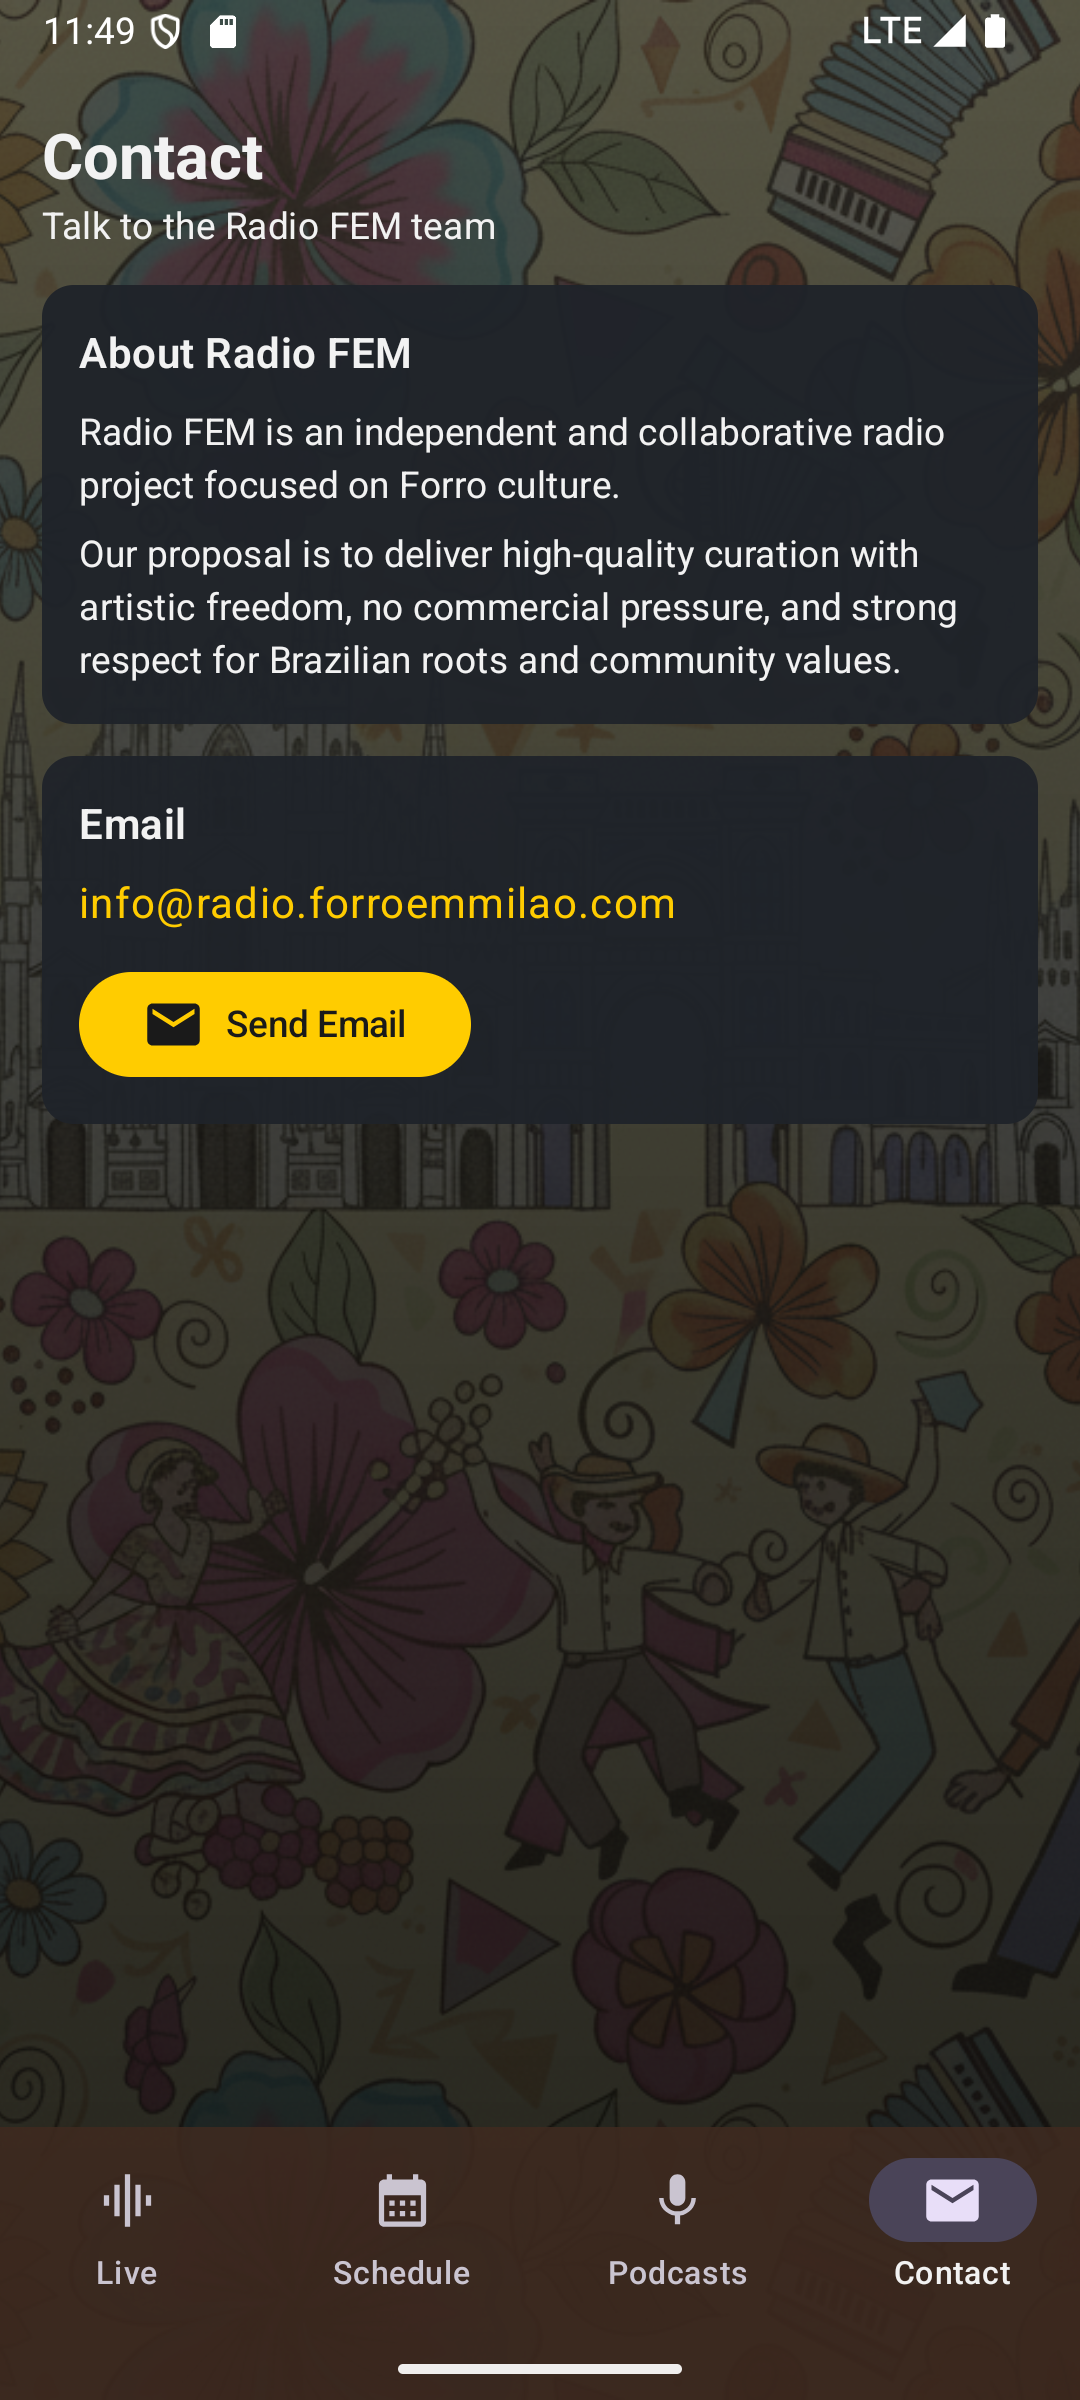
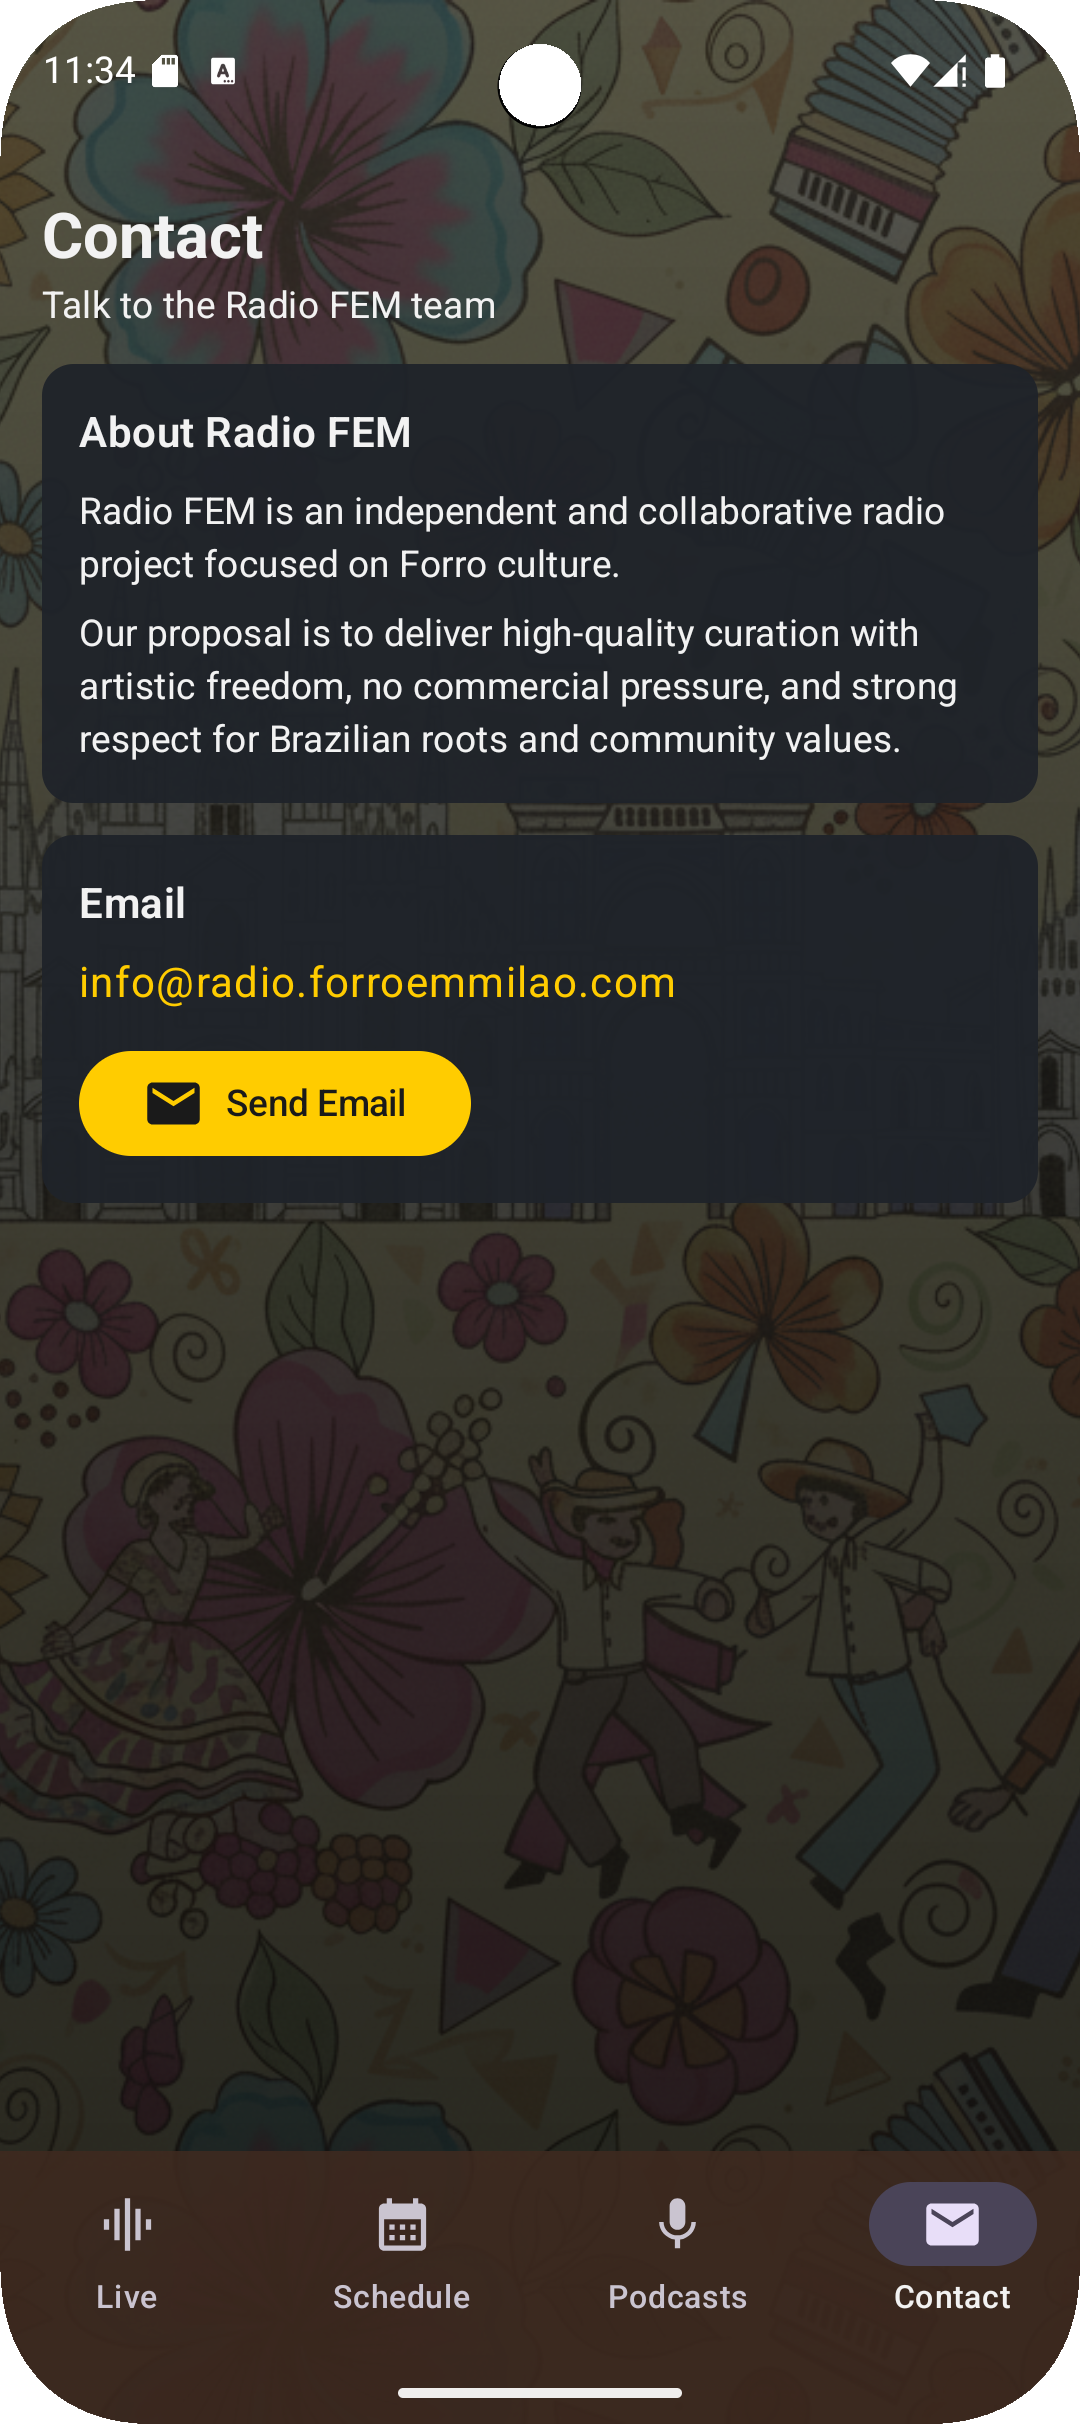
Update Play Store materials and screenshots for v1.0.1

diff --git a/PLAYSTORE_MATERIALS_radio_fem_v1.0.1.md b/PLAYSTORE_MATERIALS_radio_fem_v1.0.1.md
@@ -6,7 +6,7 @@
 Radio FEM
 
 ### Short description (max 80)
-Independent Forro radio with live stream, schedule, and podcasts.
+Independent Forro radio with live stream, schedule, podcasts, and contact.
 
 ### Full description (Google Play)
 Radio FEM is the official app of an independent and collaborative radio project created by Forro em Milao.
@@ -17,8 +17,10 @@ With the Radio FEM app, you can:
 - Listen to the live stream anytime.
 - See what is playing now.
 - Browse the program schedule in weekly and monthly views.
+- Navigate calendar periods and view programs for the selected week or month.
 - Explore podcasts and play episodes inside the app.
 - Control playback from notifications, headphones, and Bluetooth.
+- Contact the Radio FEM team directly from the app.
 
 Why Radio FEM:
 - Independent and collaborative radio identity.
@@ -31,23 +33,25 @@ Take Radio FEM with you and stay connected to the sound, stories, and spirit of 
 ## 2) Visual Assets You Already Have
 
 Screenshots folder detected:
-- `Screenshots/live.png` (1080 x 2400)
-- `Screenshots/Schedule.png` (1080 x 2400)
-- `Screenshots/Podcasts.png` (1080 x 2400)
+- `Screenshots/live.png` (1080 x 2424)
+- `Screenshots/Schedule.png` (1080 x 2424)
+- `Screenshots/Podcasts.png` (1080 x 2424)
+- `Screenshots/contact.png` (1080 x 2424)
 
 Suggested Play Console order:
 1. Live
 2. Schedule
 3. Podcasts
+4. Contact
 
 ## 3) Required Play Console Graphics Checklist
 
 - App icon: 512 x 512 PNG (32-bit)
 - Feature graphic: 1024 x 500 PNG or JPG (no transparency)
-- Phone screenshots: minimum 2 (you already have 3)
+- Phone screenshots: minimum 2 (you already have 4)
 
 Note:
-- Your current screenshots are RGBA PNG. Usually this is accepted, but if Play Console rejects transparency, export JPG copies for upload.
+- Your screenshots are RGBA PNG. Usually accepted, but if Play Console rejects transparency, export JPG copies for upload.
 
 ## 4) Release Metadata (for this build)
 
@@ -58,10 +62,12 @@ Note:
 
 ## 5) Suggested "What's new" (English)
 
-- Improved schedule experience with weekly and monthly navigation.
-- Better podcast playback flow inside the app.
+- New Contact section with Radio FEM mission and direct email access.
+- Improved schedule behavior for Weekly and Monthly views.
+- Calendar navigation now shows programs for the selected time period.
+- Better in-app podcast playback flow and player refinements.
 - UI and text refinements in English.
-- Performance and stability improvements.
+- Stability and performance improvements.
 
 ## 6) Source for Mission/Principles
 
